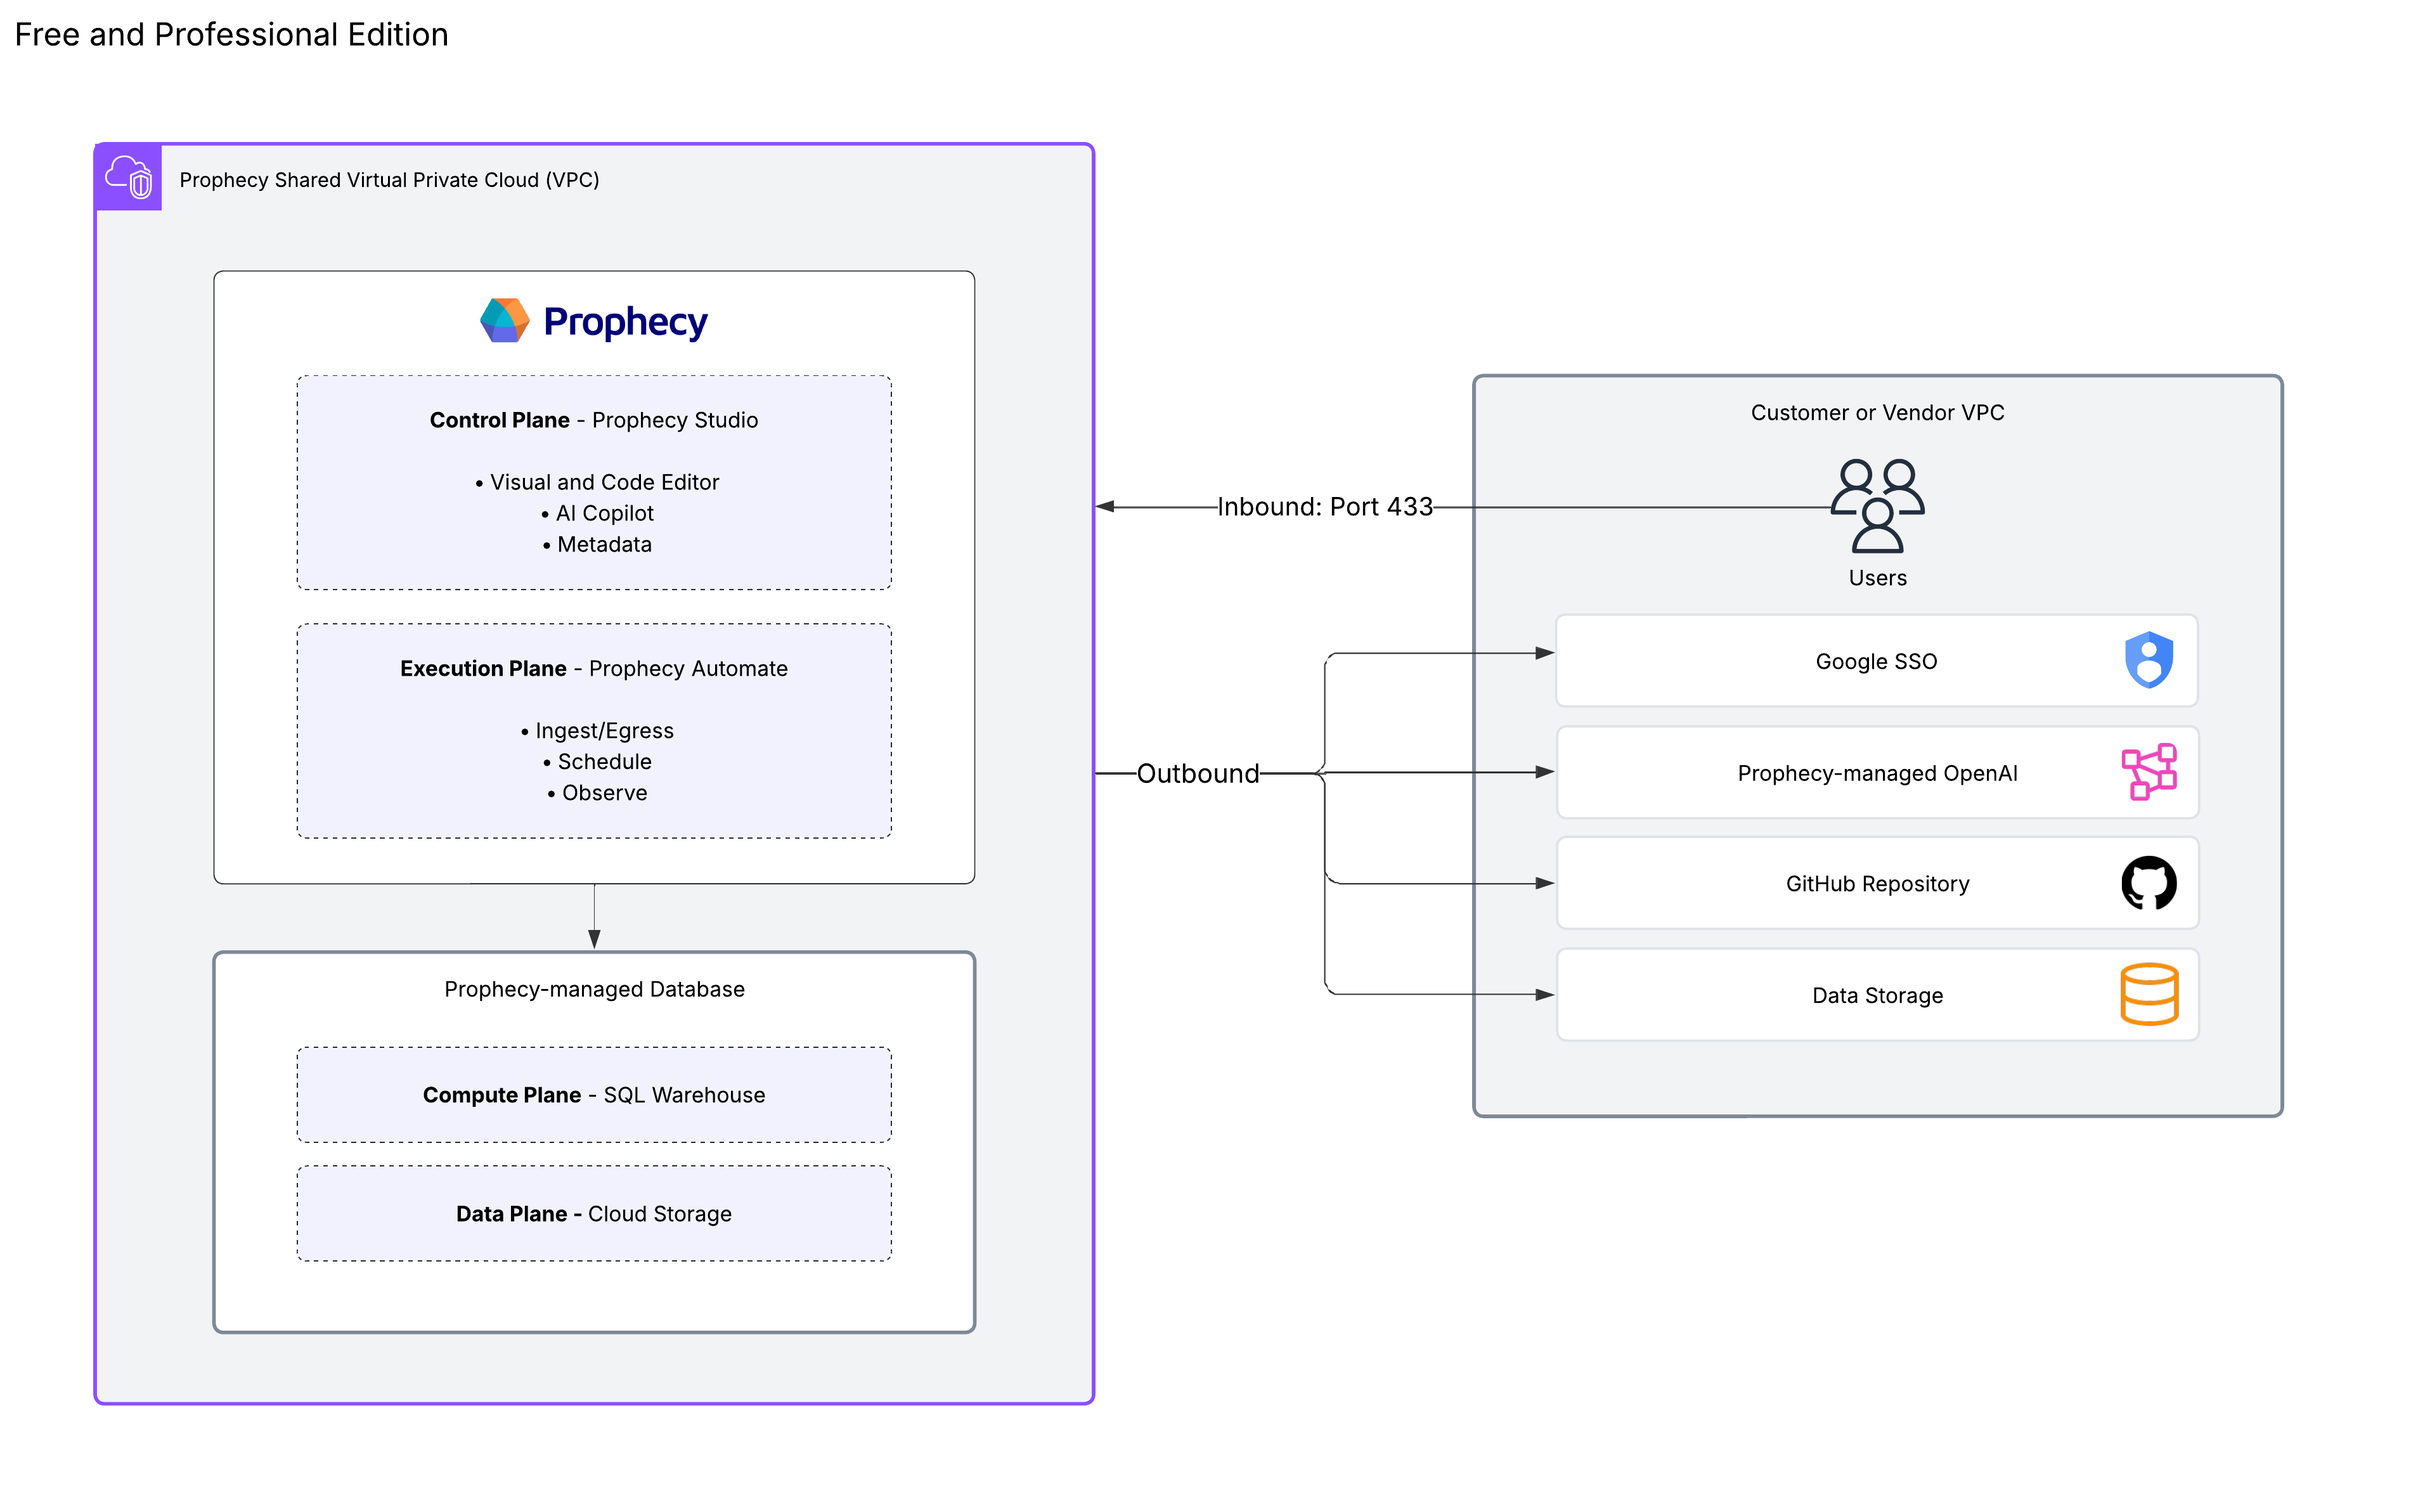
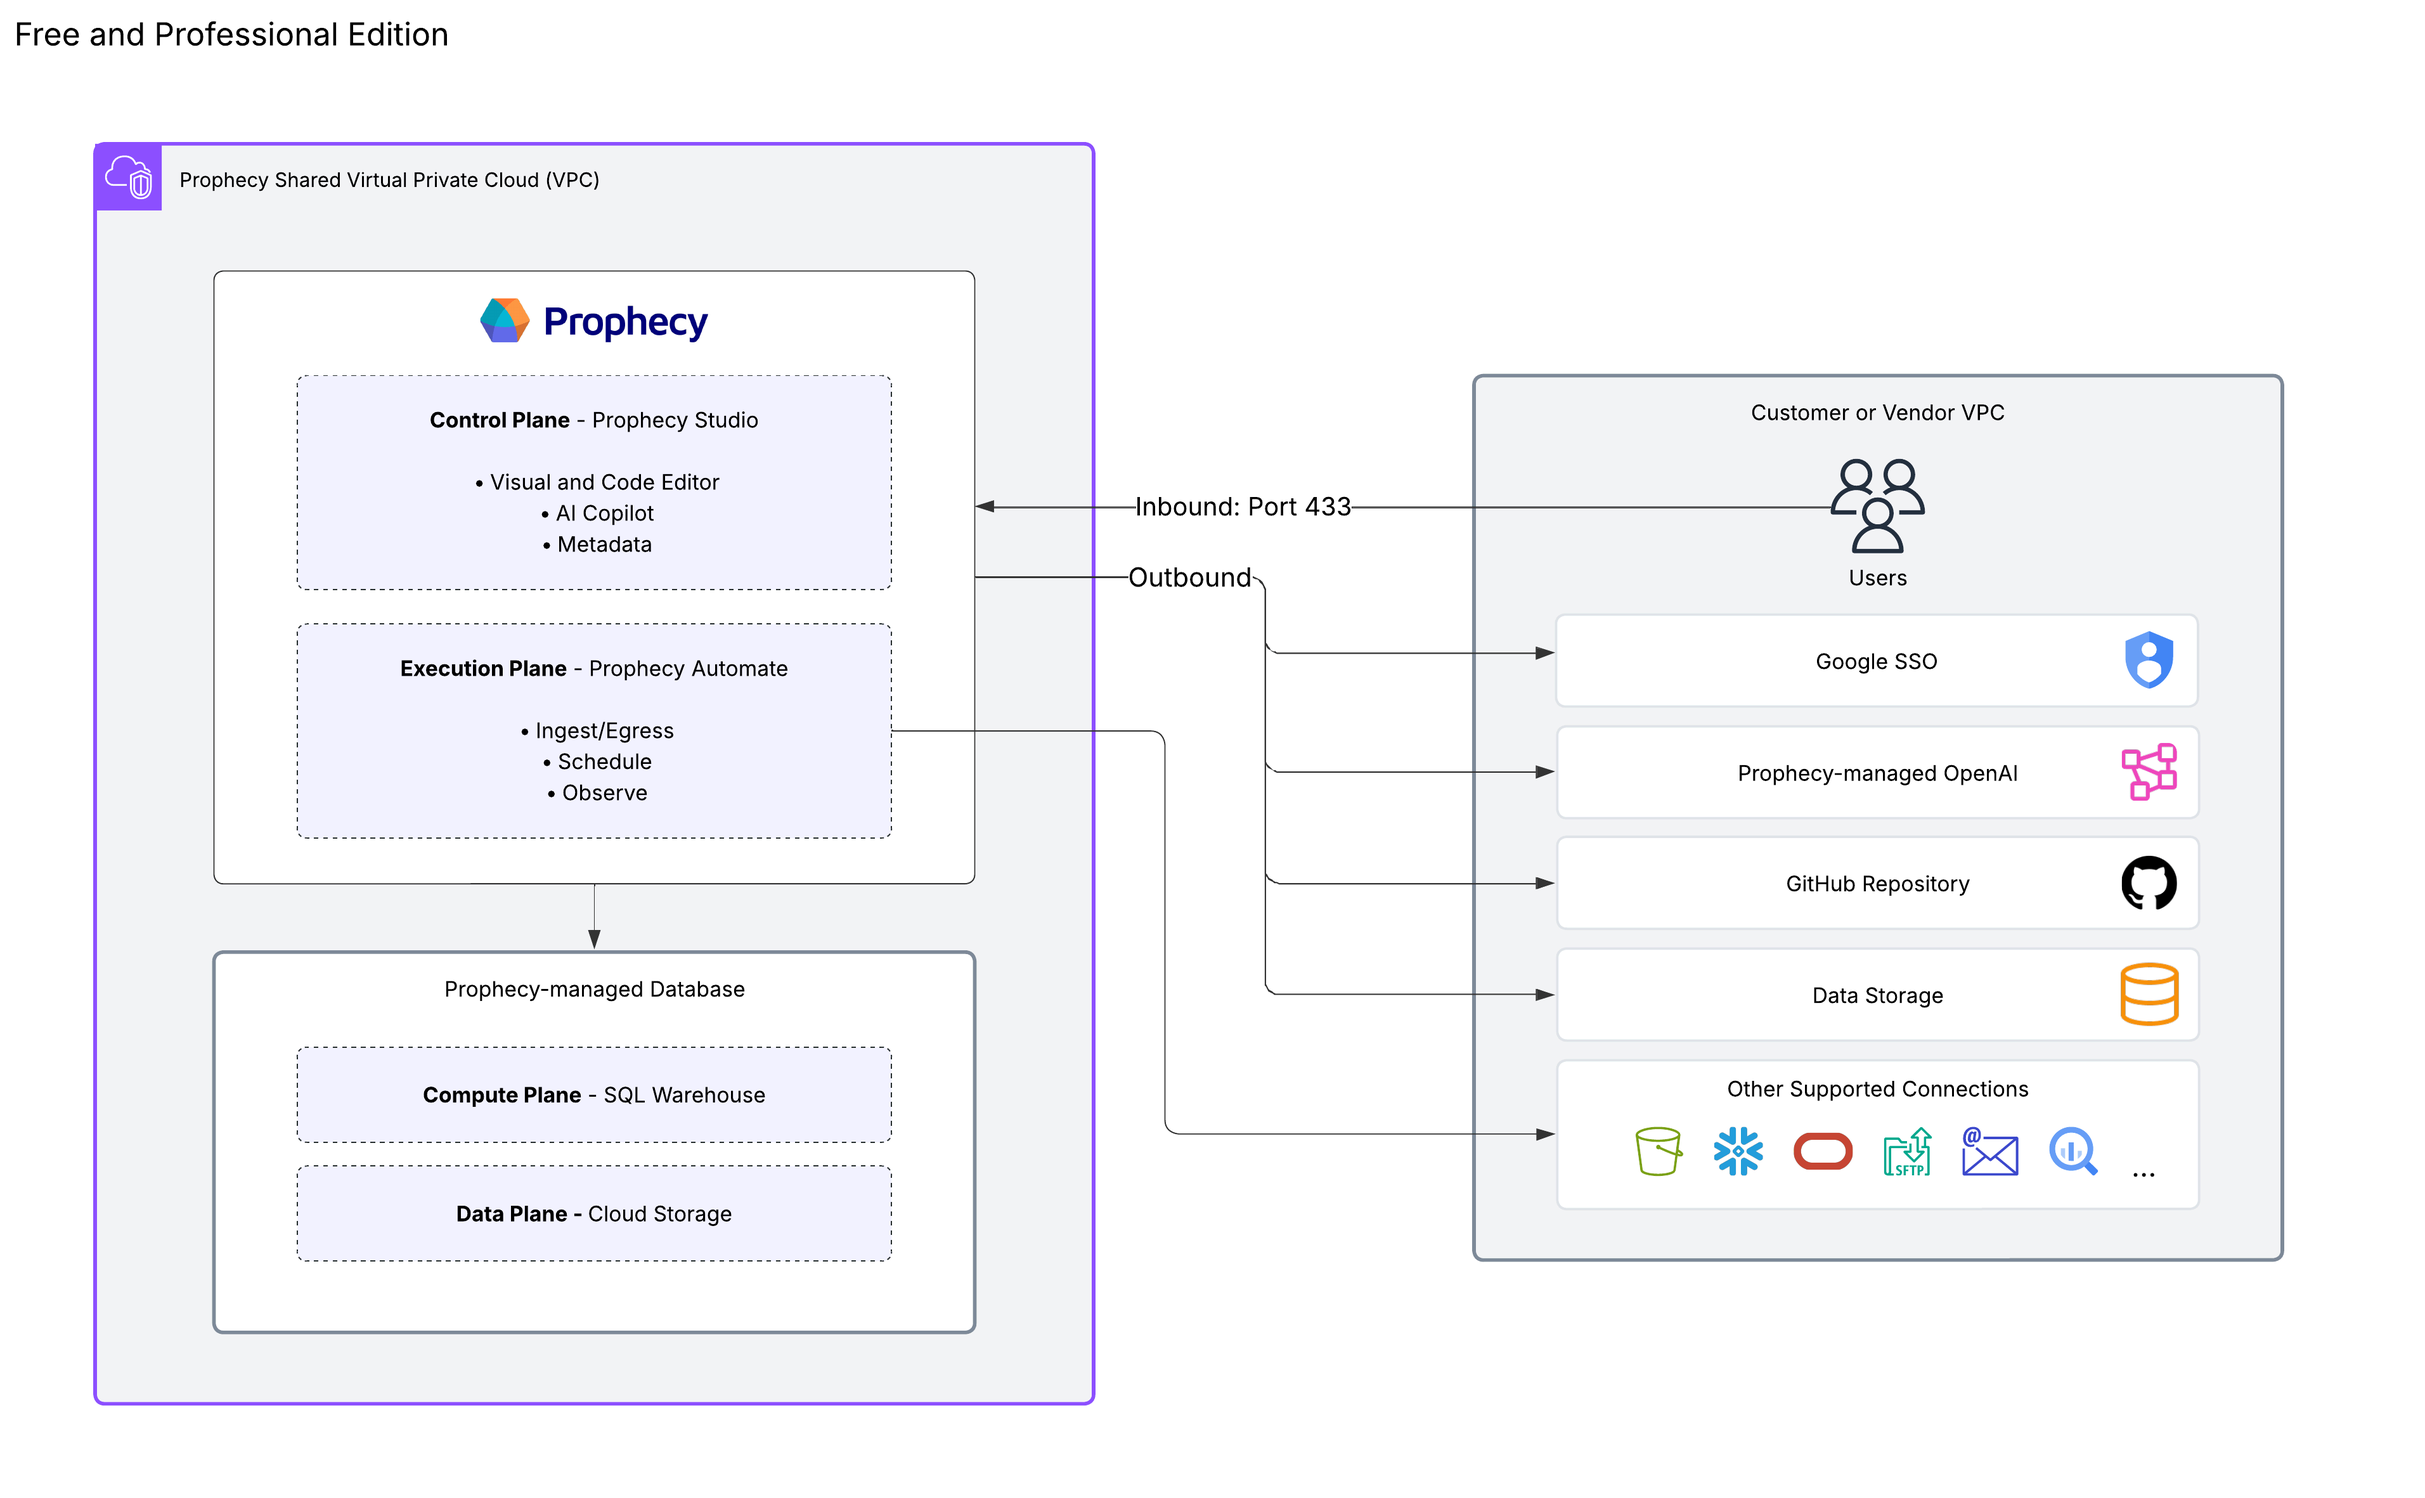
Update prophecy automate section with diagram

diff --git a/src/css/custom.css b/src/css/custom.css
@@ -396,6 +396,12 @@ img.no-border-radius {
   border-radius: 0 !important;
 }
 
+img.light-border {
+  border: 1px solid var(--ifm-color-emphasis-200);
+  border-radius: 0 !important;
+  margin-bottom: var(--ifm-spacing-vertical);
+}
+
 /* Example data table style */
 
 .table-example table {

diff --git a/docs/administration/architecture.md b/docs/administration/architecture.md
@@ -22,9 +22,11 @@ The Free and Professional Editions provide a complete data platform with managed
 | Version control    | Git integration supporting both Prophecy-managed and external Git repositories.                                |
 | Deployment model   | SaaS only. Learn more in [Deployment models](docs/administration/prophecy-deployment.md).                      |
 
-### Architecture diagram {#diagram-1}
-
-![Free and Professional Edition Architecture](img/arch-free-pro.png)
+<img
+src={require('./img/arch-free-pro.png').default}
+alt="Free and Professional Edition Architecture"
+className="light-border"
+/>
 
 ## Express Edition
 
@@ -40,9 +42,11 @@ The Express Edition provides enterprise-grade features scoped to leverage your e
 | Version control        | Git integration supporting both Prophecy-managed and external Git repositories.                                |
 | Deployment model       | Dedicated SaaS only. Learn more in [Deployment models](docs/administration/prophecy-deployment.md).            |
 
-### Architecture diagram {#diagram-2}
-
-![Enterprise and Express Edition Architecture](img/arch-enterprise-sql.png)
+<img
+src={require('./img/arch-enterprise-sql.png').default}
+alt="Enterprise and Express Edition Architecture"
+className="light-border"
+/>
 
 :::info
 This diagram shows the architecture for the Express Edition. **Users on the Enterprise Edition can also leverage this architecture.** However, Enterprise users can also connect to additional SQL warehouses, like BigQuery.
@@ -61,9 +65,11 @@ The Enterprise edition offers maximum flexibility with multiple execution engine
 | Version control  | Git integration supporting both Prophecy-managed and external Git repositories.                                                                                                                                                                                                                           |
 | Deployment model | Dedicated SaaS preferred, Self-hosted supported, and SaaS available. Learn more in [Deployment models](#deployment-models).                                                                                                                                                                               |
 
-### Architecture diagram {#diagram-3}
-
-![Enterprise Edition Spark Architecture](img/arch-enterprise-spark.png)
+<img
+src={require('./img/arch-enterprise-spark.png').default}
+alt="Enterprise Edition Spark Architecture"
+className="light-border"
+/>
 
 The Enterprise Edition supports both SQL-based and Spark-based architectures. The diagram above shows the architecture for a deployment using Spark.
 
@@ -74,15 +80,21 @@ Prophecy can accommodate a wide variety of architectures beyond this diagram. Fo
 
 ## What is Prophecy Automate?
 
-Prophecy Automate is the native runtime available across all Prophecy editions. This integrated platform provides three core capabilities:
+Prophecy Automate is the native runtime available across all Prophecy editions. This runtime provides the following core capabilities:
 
-- **Ingest**: Data ingestion capabilities that support reading from and writing to data warehouses. Designed for business data sources including SharePoint, SFTP, and Excel files.
+- **Ingress/Egress**: Supports reading from and writing to databases (Snowflake, Oracle, etc.) and other data providers (SharePoint, Tableau, etc.).
 
-- **Transform**: Prophecy Automate lets us provide transformation capabilities beyond what's possible in dbt core. For example, you can using the DynamicInput gem, which runs on Prophecy Automate, to ...
+- **Transform**: Provides transformation capabilities beyond what's possible in dbt core. For example, you can using the DynamicInput gem, which runs on Prophecy Automate, to run SQL queries that update automatically based on your incoming data.
 
-- **Orchestrate**: Scheduling and workflow management with time-based and trigger-based execution options. Provides intuitive interactive experiences with comprehensive built-in monitoring capabilities.
+- **Scheduling**: Lets you to automate pipeline runs with time-based and trigger-based execution options. Also enables use of APIs to trigger orchestration functionality.
 
-- **Observe**: Integrated monitoring and observability features that enable quick troubleshooting of scheduled pipelines, cost analysis, performance monitoring, and data quality oversight, all accessible through the Prophecy Studio interface.
+- **Observe**: Integrates monitoring and observability features that allow you to view pipeline run history, track project deployments, and view active pipeline schedules.
+
+<img
+src={require('./img/arch-prophecy-automate.png').default}
+alt="Prophecy Automate connections diagram"
+className="light-border"
+/>
 
 :::info
 Prophecy Automate is only accessible via [Prophecy fabrics](/administration/fabrics/prophecy-fabrics/) for SQL projects and does not integrate with Spark-based projects.
